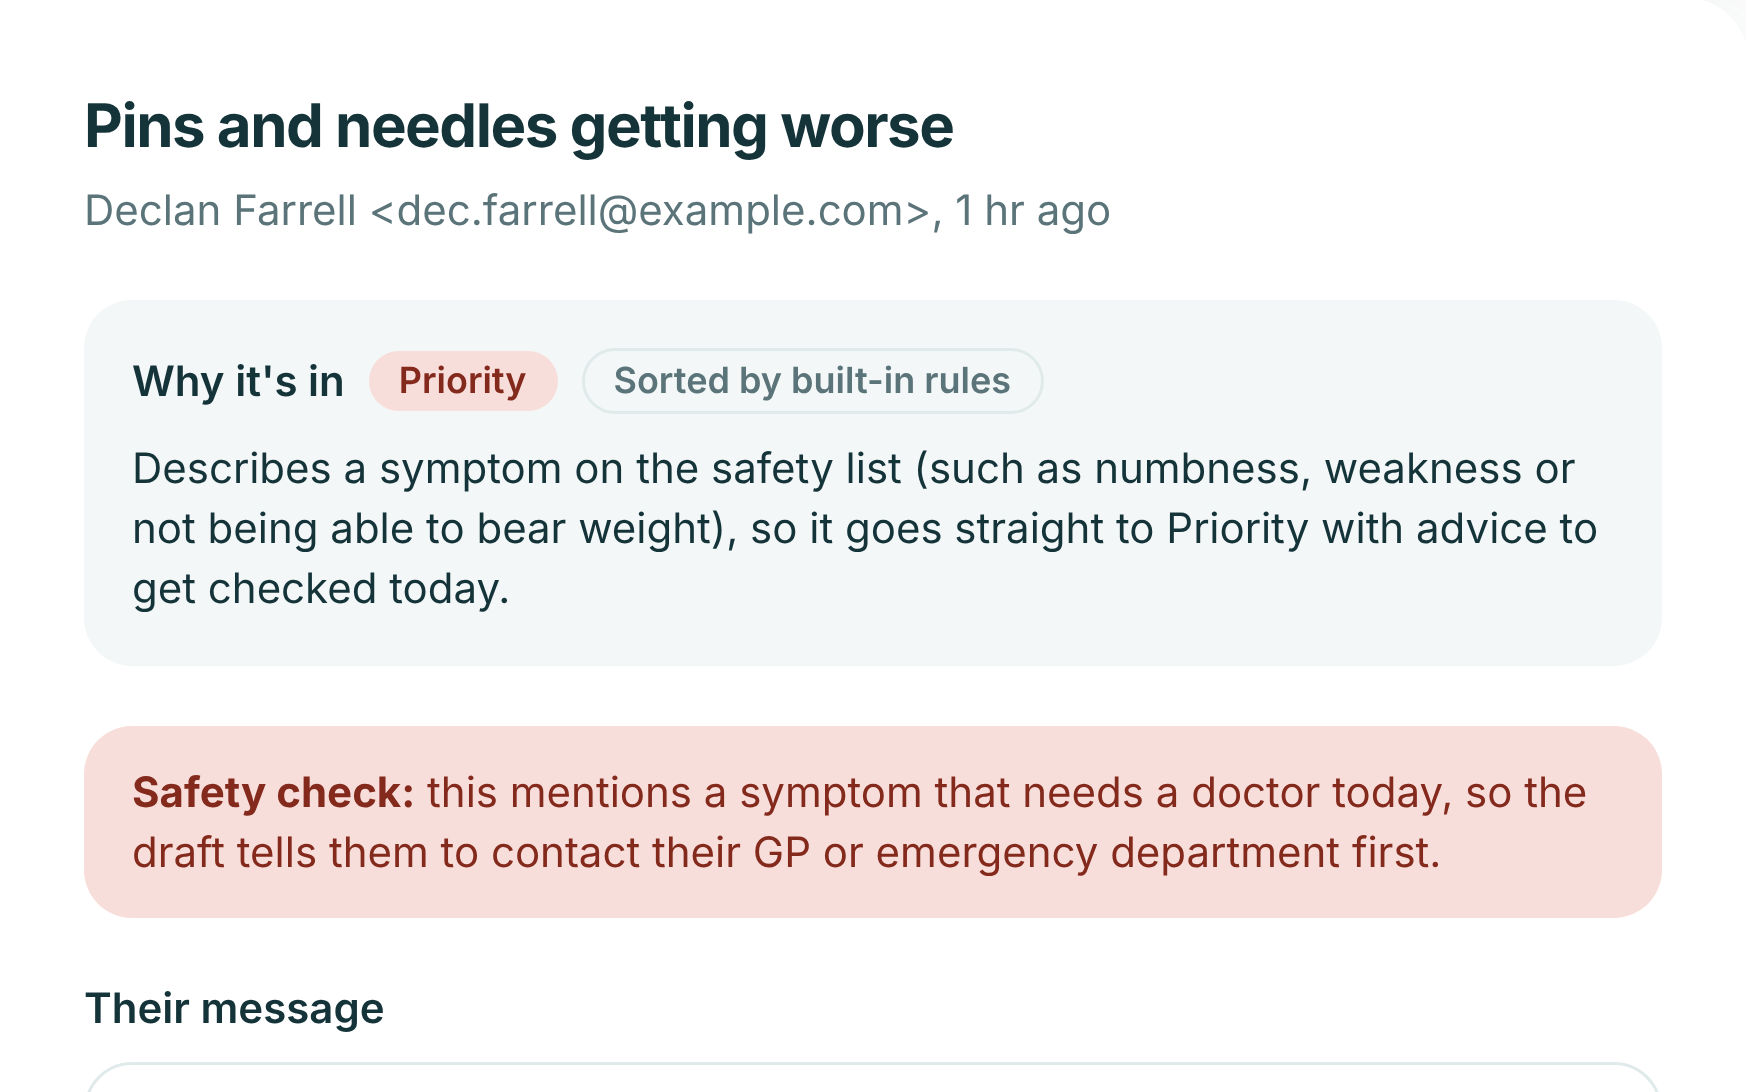
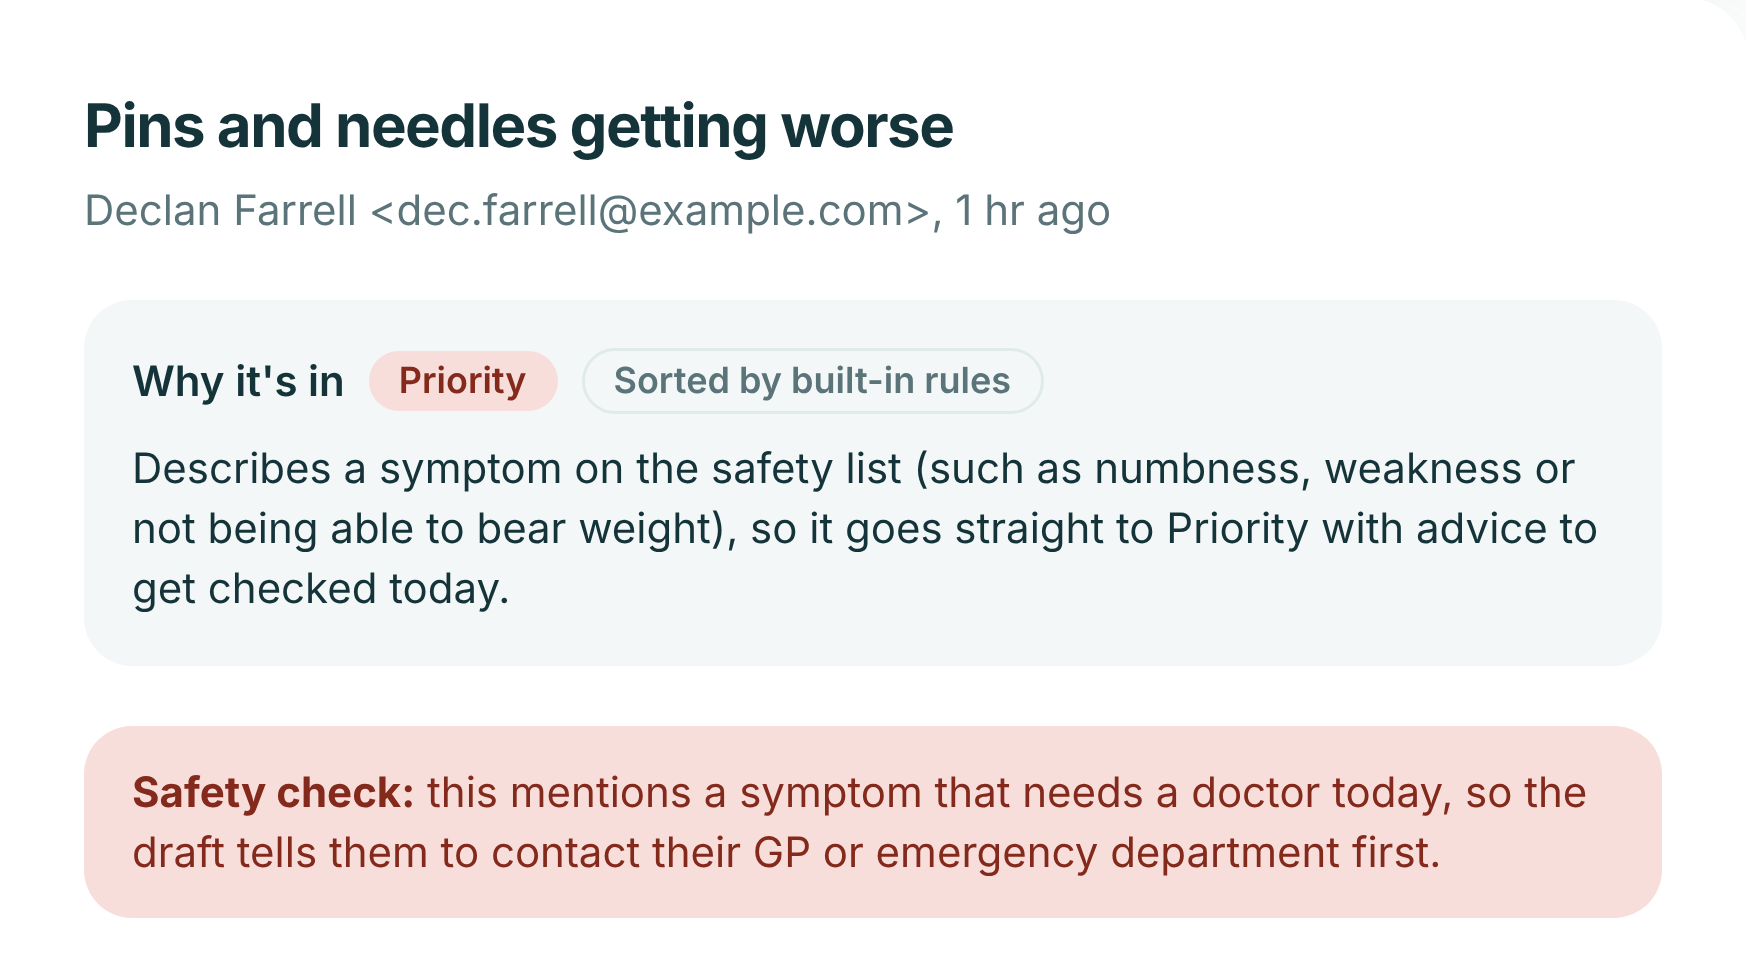
Polish: clean triage crop, one running head, light product shots, Jarvis phone crop
- Email triage screenshot ends below the safety check instead of cutting
  'Their message' in half; the capture script now finds that boundary.
- Clinic band: 'Selected work' and 'The clinic suite' share one rule as a
  running head, so only two labels stack above the title.
- Screenshots, their browser frames and the dashboards drawn in HTML keep
  their light appearance in the dark theme and on the night band. The
  unused screenshot dimming is removed.
- Below 640 px the Jarvis dashboard is replaced by a crop of the same
  screenshot showing the Ask Jarvis panel (scripts/crop-work.mjs). Any
  NAME-mobile.png beside NAME.png is picked up the same way.

Claude-Session: https://claude.ai/code/session_01VDCQDt1e7RdJ6zCdozm3wy

Changed region(s): [[0.0309, 0.608, 0.9588, 0.9727], [0.0619, 0.304, 0.9278, 0.5776], [0.0309, 0.0912, 0.6495, 0.2432]]

diff --git a/src/styles/global.css b/src/styles/global.css
@@ -30,7 +30,6 @@
     -webkit-text-size-adjust: 100%;
     text-size-adjust: 100%;
     -webkit-tap-highlight-color: transparent;
-    --image-brightness: 1;
   }
 
   /* The theme toggle sets data-theme; without it the system decides. */
@@ -39,12 +38,6 @@
   }
   :root[data-theme='dark'] {
     color-scheme: dark;
-    --image-brightness: 0.92;
-  }
-  @media (prefers-color-scheme: dark) {
-    :root:not([data-theme='light']) {
-      --image-brightness: 0.92;
-    }
   }
 
   html {
@@ -289,16 +282,12 @@
       radial-gradient(50% 60% at 95% 15%, color-mix(in oklch, var(--color-night-blue) 75%, transparent), transparent 70%),
       radial-gradient(55% 55% at 55% 105%, color-mix(in oklch, var(--color-night-green) 55%, transparent), transparent 70%);
   }
-  /* Something inside the band that should follow the page's theme again. */
-  .scheme-page {
-    color-scheme: light dark;
-    color: var(--color-ink);
-  }
-  :root[data-theme='light'] .scheme-page {
+  /* Product pictures, the screenshots and the dashboards drawn in HTML, keep
+     their light appearance in both themes and on the night band, as product
+     shots do on a product page. Only the page around them changes. */
+  .scheme-light {
     color-scheme: light;
-  }
-  :root[data-theme='dark'] .scheme-page {
-    color-scheme: dark;
+    color: var(--color-ink);
   }
 
   /* ── Phone frame ───────────────────────────────────────────────────────
@@ -418,11 +407,6 @@
     line-height: 1.6;
     font-feature-settings: normal;
     tab-size: 2;
-  }
-
-  /* Screenshots sit slightly dimmer on dark surfaces. */
-  .media img {
-    filter: brightness(var(--image-brightness));
   }
 }
 

diff --git a/src/styles/tokens.css b/src/styles/tokens.css
@@ -259,6 +259,27 @@
     --shadow-e2: none;
     --shadow-e3: none;
   }
+  /* …except the product pictures inside it, which stay light. */
+  .night .scheme-light {
+    --color-n1: oklch(0.99 0.002 250);
+    --color-n4: oklch(0.935 0.005 250);
+    --color-n5: oklch(0.91 0.006 250);
+    --color-n7: oklch(0.83 0.008 250);
+    --color-n11: oklch(0.45 0.01 250);
+    --color-n12: oklch(0.2 0.01 250);
+    --color-surface: oklch(1 0 0);
+    --color-well: oklch(0.965 0.004 250);
+    --color-accent: oklch(0.52 0.085 200);
+    --color-accent-strong: oklch(0.45 0.078 200);
+    --color-accent-ink: oklch(1 0 0);
+    --color-ok: oklch(0.4 0.08 160);
+    --color-ok-soft: oklch(0.95 0.035 160);
+    --color-warn: oklch(0.42 0.09 70);
+    --color-warn-soft: oklch(0.95 0.055 85);
+    --shadow-e1: 0 1px 2px oklch(0 0 0 / 0.06);
+    --shadow-e2: 0 4px 16px -4px oklch(0 0 0 / 0.12);
+    --shadow-e3: 0 16px 48px -12px oklch(0 0 0 / 0.2);
+  }
 }
 
 /* Durations live outside @theme so reduced motion can retune them in one place.

diff --git a/src/lib/images.ts b/src/lib/images.ts
@@ -1,0 +1,16 @@
+/**
+ * The screenshots in src/assets/work/, by file name.
+ *
+ * A file named NAME-mobile.png beside NAME.png is a crop of the same
+ * screenshot (made by scripts/crop-work.mjs) that replaces it on screens
+ * under 640 px wide, where the whole picture would be too small to read.
+ */
+import type { ImageMetadata } from 'astro';
+
+const files = import.meta.glob<{ default: ImageMetadata }>('../assets/work/*.png', { eager: true });
+
+export const workImage = (file?: string): ImageMetadata | undefined =>
+  file ? files[`../assets/work/${file}`]?.default : undefined;
+
+export const workImageMobile = (file?: string): ImageMetadata | undefined =>
+  file ? workImage(file.replace(/\.png$/, '-mobile.png')) : undefined;

diff --git a/README.md b/README.md
@@ -44,7 +44,7 @@ npm run todos      # what content is still missing
 | Styling | Tailwind CSS 4, with its defaults switched off and replaced by the tokens in [`src/styles/tokens.css`](src/styles/tokens.css) |
 | Type | Inter Variable, self-hosted: one 48 KB file, subset by [`scripts/subset-font.sh`](scripts/subset-font.sh) |
 | Case studies | MDX, with code excerpts highlighted by Shiki in the site's own three tones |
-| Images | AVIF and WebP generated at build time; screenshots captured by [`scripts/capture-work.mjs`](scripts/capture-work.mjs) |
+| Images | AVIF and WebP generated at build time; screenshots captured by [`scripts/capture-work.mjs`](scripts/capture-work.mjs), phone crops cut by [`scripts/crop-work.mjs`](scripts/crop-work.mjs) |
 | Social images | One per page, drawn with Satori at build time |
 | CV | The `/cv/` page, printed to PDF by Playwright and checked |
 | Hosting | Vercel, as static files. A personal, non-commercial site, so the free Hobby plan fits |

diff --git a/docs/todo-content.md b/docs/todo-content.md
@@ -54,6 +54,7 @@ One conversation covers all of this.
   - `clinic-step-treatment.png` (choose a treatment)
   - `clinic-step-practitioner.png` (choose a practitioner)
   - `clinic-booking-phone.png` (choose a time)
+- [ ] **Phone crops.** A file named `NAME-mobile.png` beside `NAME.png` is shown instead of it on screens under 640 px. Today there is one: `jarvis-dashboard-approve-mobile.png`, the Ask Jarvis panel cut from the dashboard screenshot. If you replace the dashboard screenshot, run `node scripts/crop-work.mjs` and check the crop still frames the panel (the region is set in that script).
 - [ ] **More projects now has a screenshot per project**, captured from the live sites on 12 November 2026: `designroom.png` (demo mode), `house-prices.png`, `deme-housepainting.png`. Their alt text is in `resume.json` (`imageAlt`); correct it if anything reads wrong. Re-capture with `node scripts/capture-work.mjs`.
 
 ## Before launch, not blocking the build
